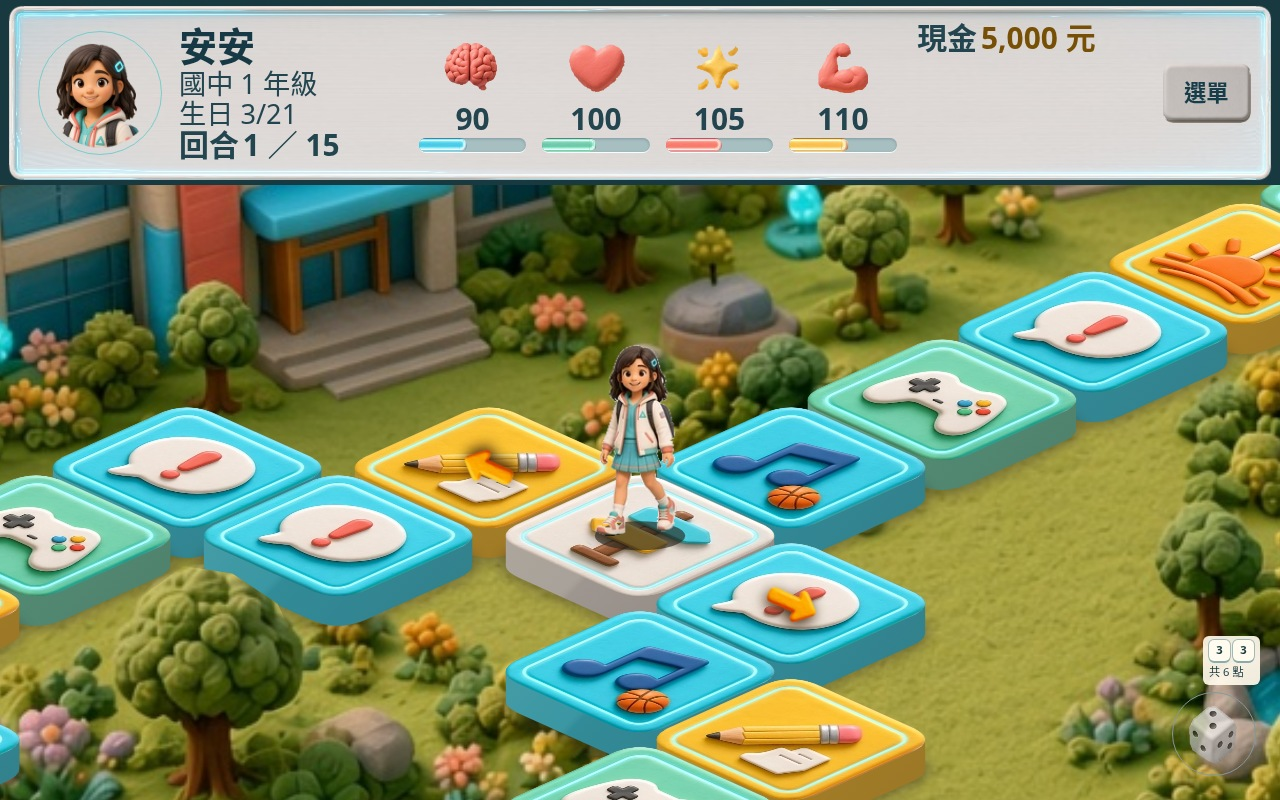
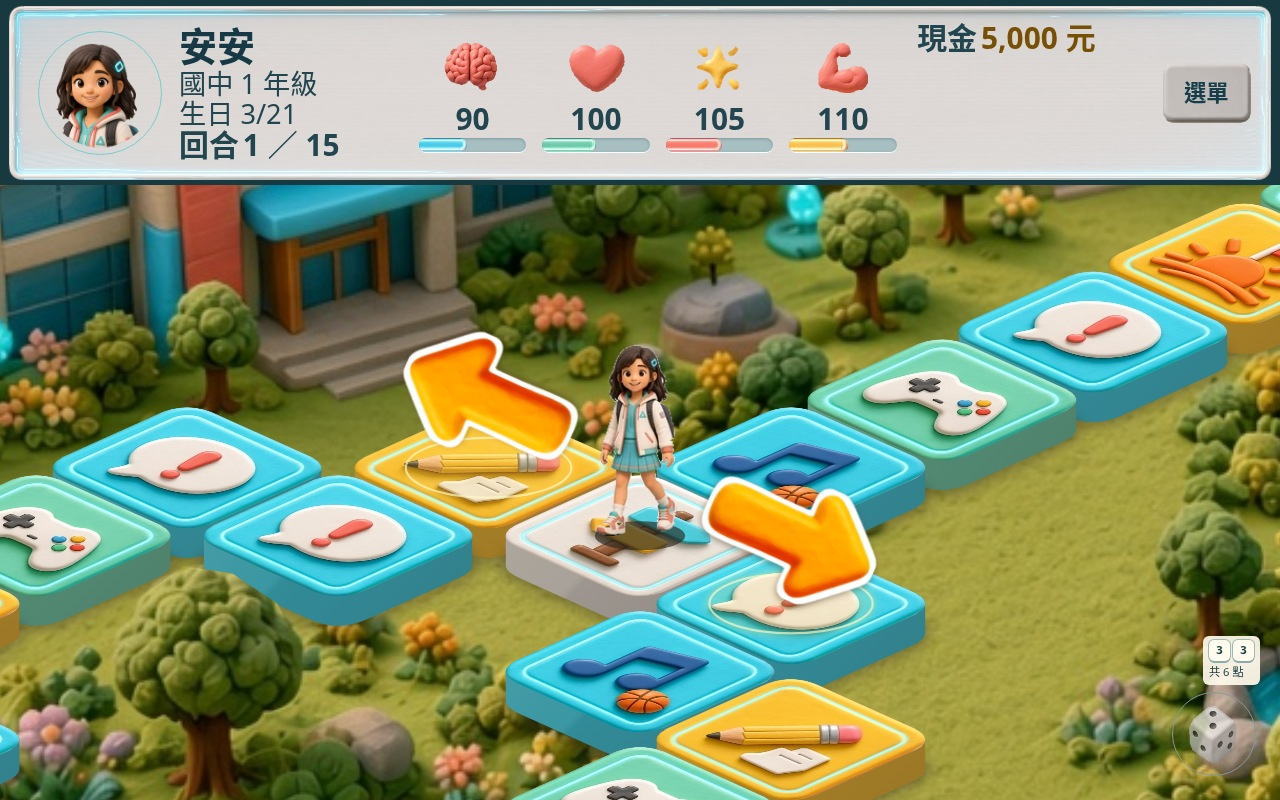
Larger floating arrows mark fork destinations

Changed region(s): [[0.5312, 0.5938, 0.6875, 0.8125], [0.3125, 0.4062, 0.4688, 0.625]]

diff --git a/src/junior-board.ts b/src/junior-board.ts
@@ -69,6 +69,14 @@ export function showStageBoard(
     <div class="board-map" role="group" aria-label="${board.label}">
       <div class="board-world"><picture><source media="(orientation: portrait)" srcset="${portrait}"><img src="${landscape}" alt=""></picture>
       <svg class="board-track" preserveAspectRatio="none"></svg>
+      <svg class="route-filter" aria-hidden="true" width="0" height="0">
+        <filter id="route-arrow-outline" x="-25%" y="-35%" width="150%" height="170%" color-interpolation-filters="sRGB">
+          <feMorphology in="SourceAlpha" operator="dilate" radius="2" result="stroke"/>
+          <feFlood flood-color="white"/>
+          <feComposite in2="stroke" operator="in" result="white-outline"/>
+          <feMerge><feMergeNode in="white-outline"/><feMergeNode in="SourceGraphic"/></feMerge>
+        </filter>
+      </svg>
       <div class="board-routes" role="group" hidden></div></div>
     </div>
     ${boardHudMarkup(debug)}
@@ -267,9 +275,14 @@ export function showStageBoard(
   function positionRoutes() {
     for (const button of routeOptions.querySelectorAll("button")) {
       const to = Number(button.value);
-      const { x, y, angle } = view.routePlacement(save.boardTile, to);
+      const { x, y, angle, faceWidth, lift } = view.routePlacement(
+        save.boardTile,
+        to,
+      );
       button.style.left = `${x}%`;
-      button.style.top = `${y}%`;
+      button.style.top = `calc(${y}% - ${lift}cqw)`;
+      button.style.setProperty("--route-face-width", `${faceWidth}cqw`);
+      button.style.setProperty("--route-lift", `${lift}cqw`);
       button.style.setProperty("--route-angle", `${angle}deg`);
     }
   }

diff --git a/tests/browser/game.spec.ts b/tests/browser/game.spec.ts
@@ -646,14 +646,27 @@ for (const [direction, width, height] of [
       for (const button of await buttons.all()) {
         await expect(button).toBeInViewport({ ratio: 0.99 });
         const box = (await button.boundingBox())!;
-        expect(box.width).toBeGreaterThanOrEqual(44);
-        expect(box.height).toBeGreaterThanOrEqual(44);
+        expect(box.width).toBeGreaterThanOrEqual(56);
+        expect(box.height).toBeGreaterThanOrEqual(56);
         const tile = await button.getAttribute("value");
         const face = (await page
           .locator(`.board-tile[data-tile="${tile}"] .paver-top`)
           .boundingBox())!;
         expect(box.x + box.width / 2).toBeCloseTo(face.x + face.width / 2, 0);
-        expect(box.y + box.height / 2).toBeCloseTo(face.y + face.height / 2, 0);
+        expect(box.y + box.height / 2).toBeCloseTo(face.y, 0);
+        const arrow = button.locator("img");
+        await expect(arrow).toBeInViewport({ ratio: 0.99 });
+        const arrowWidth = await arrow.evaluate((image) =>
+          parseFloat(getComputedStyle(image).width),
+        );
+        const zoom = await button.evaluate((node) =>
+          Number(getComputedStyle(node).getPropertyValue("--board-zoom")),
+        );
+        expect((arrowWidth * zoom) / face.width).toBeCloseTo(0.61, 2);
+        const map = (await page.locator(".board-map").boundingBox())!;
+        const art = (await arrow.boundingBox())!;
+        expect(art.y).toBeGreaterThanOrEqual(map.y);
+        expect(art.y + art.height).toBeLessThanOrEqual(map.y + map.height);
       }
       const directory = process.env.STEP_9A2_SHOP_ROUTE_SCREENSHOTS;
       if (directory) {

diff --git a/src/junior-board.css b/src/junior-board.css
@@ -171,14 +171,22 @@
   stroke-width: 2;
 }
 
+.route-filter {
+  position: absolute;
+}
+
 .board-routes {
+  container-type: inline-size;
   position: absolute;
   inset: 0;
   pointer-events: none;
 }
 .board-routes button {
   position: absolute;
-  width: calc(56px / var(--board-zoom, 1));
+  width: max(
+    calc(58px / var(--board-zoom, 1)),
+    calc(var(--route-face-width) * 0.62)
+  );
   aspect-ratio: 1;
   translate: -50% -50%;
   display: grid;
@@ -191,13 +199,29 @@
 }
 .board-routes button:focus-visible {
   outline: calc(2px / var(--board-zoom, 1)) solid #fff1b3;
-  outline-offset: 0;
+  outline-offset: calc(3px / var(--board-zoom, 1));
+}
+.board-routes button::before {
+  content: "";
+  position: absolute;
+  top: calc(50% + var(--route-lift));
+  left: 50%;
+  width: calc(var(--route-face-width) * 0.55);
+  height: calc(var(--route-lift) * 0.87);
+  translate: -50% -50%;
+  border: calc(2px / var(--board-zoom, 1)) solid #fff7caad;
+  border-radius: 50%;
+  background: #ffe97b30;
+  box-shadow: 0 0 4px #ffe37281;
+  pointer-events: none;
 }
 .board-routes img {
   display: block;
-  width: 100%;
+  justify-self: center;
+  width: calc(var(--route-face-width) * 0.61);
   rotate: var(--route-angle);
-  filter: drop-shadow(0 2px 3px #392009);
+  filter: saturate(1.12) url(#route-arrow-outline)
+    drop-shadow(0 1.5px 1.5px #39200970);
   pointer-events: none;
   animation: route-bounce 1.4s ease-in-out infinite;
 }

diff --git a/src/board-view.ts b/src/board-view.ts
@@ -80,6 +80,8 @@ export function boardView(
     body,
     footprint,
     depth: thickness,
+    faceWidth,
+    faceHeight,
     tileTop,
   } = measureTrack(layout);
   const pawnWidth = (layout.pawnHeight * 116) / 197;
@@ -299,6 +301,8 @@ export function boardView(
         x: (100 * end.x) / layout.width,
         y: (100 * end.y) / layout.height,
         angle: (Math.atan2(end.y - start.y, end.x - start.x) * 180) / Math.PI,
+        faceWidth: (100 * faceWidth) / layout.width,
+        lift: (50 * faceHeight) / layout.width,
       };
     },
     step(from: number, to: number, progress: number) {

diff --git a/src/board-track.ts b/src/board-track.ts
@@ -38,7 +38,15 @@ export function measureTrack(layout: BoardLayout) {
 
   const tileTop = ({ x, y }: { x: number; y: number }) =>
     `matrix(${w / tileArtSize} ${h / tileArtSize} ${-w / tileArtSize} ${h / tileArtSize} ${x} ${y})`;
-  return { centers, body, footprint, depth, tileTop };
+  return {
+    centers,
+    body,
+    footprint,
+    depth,
+    tileTop,
+    faceWidth: 2 * w,
+    faceHeight: 2 * h,
+  };
 }
 
 export function debugGrid(layout: BoardLayout) {
